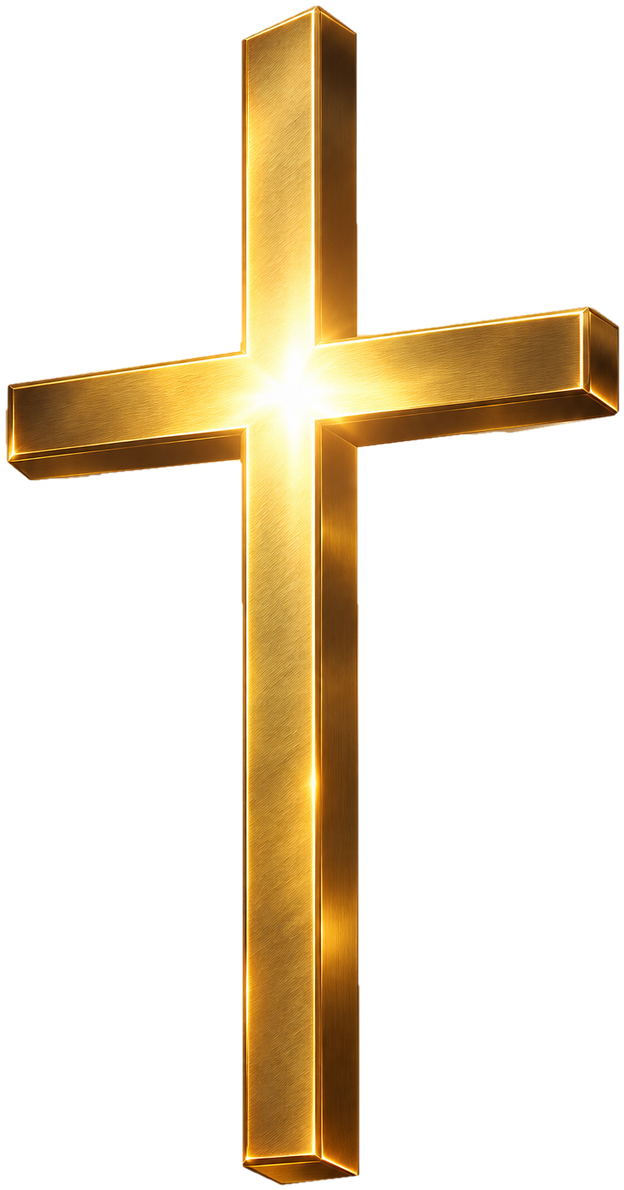
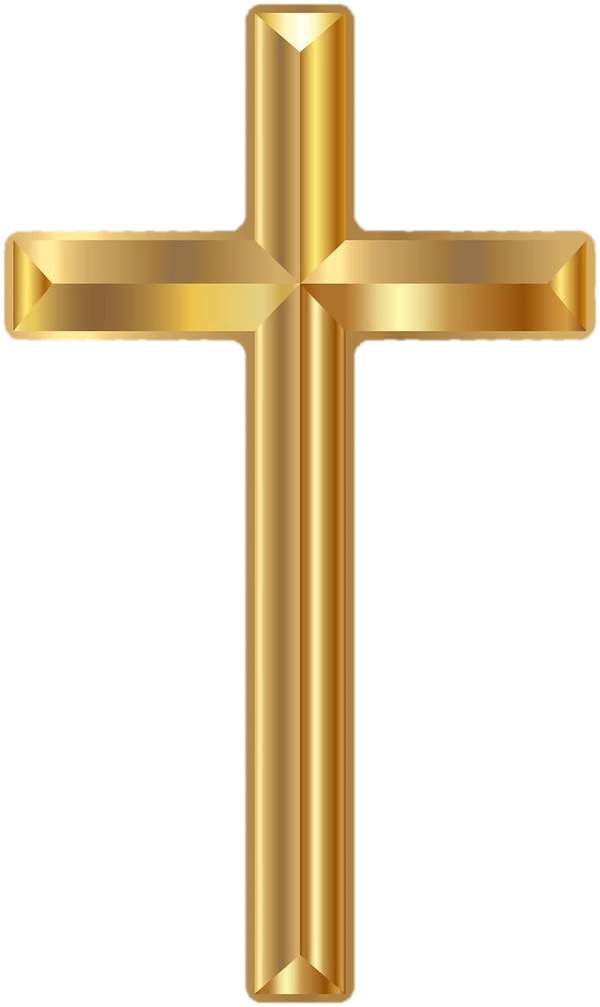
Another One

diff --git a/index.html b/index.html
@@ -3,9 +3,9 @@
 <head>
 <meta charset="utf-8">
 <meta name="viewport" content="width=device-width, initial-scale=1">
+<link rel="canonical" href="https://blessedchuckles.netlify.app/">
 <link rel="icon" href="logo.jpg">
-<title>Blessed Chuckles</title>
-<meta name="claude:viewport-fit-sides" content="cover">
+<title>Blessed Chuckles | Worship, Prayer and the Catholic Bible</title>
 <meta name="description" content="Blessed Chuckles: worship, prayer, inspiration, and the Catholic Bible to read online.">
 <meta property="og:type" content="website">
 <meta property="og:site_name" content="Blessed Chuckles">
@@ -26,7 +26,7 @@
     :root{--navy:#061629;--navy2:#0a2039;--navy3:#102b49;--gold:#d8b56c;--gold2:#f3d99d;--white:#f7f8fb;--muted:#aab8c8;--line:rgba(220,231,244,.13);--max:1180px}
     *{box-sizing:border-box}html{scroll-behavior:smooth}body{margin:0;background:var(--navy);color:var(--white);font-family:'DM Sans',sans-serif;overflow-x:hidden}a{color:inherit;text-decoration:none}button{font:inherit}.container{width:min(var(--max),calc(100% - 48px));margin:auto}.eyebrow{display:inline-flex;align-items:center;gap:10px;color:var(--gold2);font-size:.72rem;letter-spacing:.22em;text-transform:uppercase;font-weight:700}.eyebrow:before{content:'';width:28px;height:1px;background:var(--gold)}
     .nav{position:fixed;z-index:20;top:0;left:0;right:0;height:82px;display:flex;align-items:center;border-bottom:1px solid transparent;transition:.35s;background:linear-gradient(180deg,rgba(4,15,28,.72),transparent)}.nav.scrolled{height:70px;background:rgba(5,19,35,.9);backdrop-filter:blur(18px);border-color:var(--line)}.nav-inner{display:flex;align-items:center;justify-content:space-between}.brand{display:flex;align-items:center;gap:12px;font-family:'Playfair Display',serif;font-size:1.16rem;letter-spacing:.01em}.brand-mark{width:38px;height:38px;border:1px solid var(--gold);border-radius:50%;display:grid;place-items:center;color:var(--gold);font-size:18px;box-shadow:0 0 22px rgba(216,181,108,.13)}.brand span b{color:var(--gold);font-weight:600}.nav-links{display:flex;gap:30px;align-items:center;color:#d3dce7;font-size:.82rem}.nav-links a{transition:.2s}.nav-links a:hover{color:var(--gold2)}.nav-cta,.btn{display:inline-flex;align-items:center;justify-content:center;gap:10px;border:1px solid var(--gold);border-radius:999px;padding:13px 20px;color:var(--navy);background:linear-gradient(135deg,var(--gold2),var(--gold));font-weight:700;font-size:.8rem;letter-spacing:.02em;box-shadow:0 8px 28px rgba(216,181,108,.13);transition:transform .25s,box-shadow .25s}.nav-cta:hover,.btn:hover{transform:translateY(-3px);box-shadow:0 12px 34px rgba(216,181,108,.25)}.btn.secondary{color:var(--white);background:rgba(8,26,47,.36);box-shadow:none;border-color:rgba(239,220,177,.45)}.menu-btn{display:none;background:none;border:0;color:white;font-size:1.5rem}
-    .hero{position:relative;min-height:790px;height:100svh;max-height:980px;display:flex;align-items:center;overflow:hidden;background:radial-gradient(ellipse at 73% 40%,#173957 0%,#0a2039 34%,#061629 72%)}#world{position:absolute;inset:0;width:100%;height:100%;z-index:0}.hero:after{content:'';position:absolute;inset:0;z-index:1;pointer-events:none;background:linear-gradient(90deg,rgba(4,16,30,.86) 0%,rgba(4,16,30,.54) 45%,rgba(4,16,30,.12) 100%),linear-gradient(0deg,var(--navy) 0%,transparent 25%,rgba(4,16,30,.12) 100%)}.hero-content{position:relative;z-index:2;padding-top:75px;max-width:650px}.hero h1{font-family:'Playfair Display',serif;font-weight:500;font-size:clamp(3.2rem,7vw,6.6rem);line-height:.99;letter-spacing:-.045em;margin:24px 0 22px}.hero h1 em{font-style:normal;color:var(--gold2);display:block}.hero-copy{max-width:490px;color:#c0ccda;font-size:1.03rem;line-height:1.85;margin-bottom:32px}.hero-actions{display:flex;gap:13px;flex-wrap:wrap}.hero-note{margin-top:58px;display:flex;align-items:center;gap:14px;color:#9fb0c2;font-size:.72rem;letter-spacing:.1em;text-transform:uppercase}.hero-note:before{content:'';height:1px;width:42px;background:var(--gold)}.scroll-cue{position:absolute;z-index:3;right:4.5%;bottom:72px;writing-mode:vertical-rl;color:#b8c5d2;font-size:.65rem;letter-spacing:.24em;text-transform:uppercase;display:flex;align-items:center;gap:14px}.scroll-cue:after{content:'';height:52px;width:1px;background:linear-gradient(var(--gold),transparent)}
+    .hero{position:relative;min-height:790px;height:100svh;max-height:980px;display:flex;align-items:center;overflow:hidden;background:radial-gradient(ellipse at 73% 40%,#173957 0%,#0a2039 34%,#061629 72%)}.hero:after{content:'';position:absolute;inset:0;z-index:1;pointer-events:none;background:linear-gradient(90deg,rgba(4,16,30,.86) 0%,rgba(4,16,30,.54) 45%,rgba(4,16,30,.12) 100%),linear-gradient(0deg,var(--navy) 0%,transparent 25%,rgba(4,16,30,.12) 100%)}.hero-content{position:relative;z-index:2;padding-top:75px;max-width:650px}.hero h1{font-family:'Playfair Display',serif;font-weight:500;font-size:clamp(3.2rem,7vw,6.6rem);line-height:.99;letter-spacing:-.045em;margin:24px 0 22px}.hero h1 em{font-style:normal;color:var(--gold2);display:block}.hero-copy{max-width:490px;color:#c0ccda;font-size:1.03rem;line-height:1.85;margin-bottom:32px}.hero-actions{display:flex;gap:13px;flex-wrap:wrap}.hero-note{margin-top:58px;display:flex;align-items:center;gap:14px;color:#9fb0c2;font-size:.72rem;letter-spacing:.1em;text-transform:uppercase}.hero-note:before{content:'';height:1px;width:42px;background:var(--gold)}.scroll-cue{position:absolute;z-index:3;right:4.5%;bottom:72px;writing-mode:vertical-rl;color:#b8c5d2;font-size:.65rem;letter-spacing:.24em;text-transform:uppercase;display:flex;align-items:center;gap:14px}.scroll-cue:after{content:'';height:52px;width:1px;background:linear-gradient(var(--gold),transparent)}
     section{position:relative;padding:118px 0}.section-head{max-width:650px;margin-bottom:54px}.section-head h2{font-family:'Playfair Display',serif;font-weight:500;font-size:clamp(2.4rem,4.5vw,4.2rem);line-height:1.08;letter-spacing:-.035em;margin:18px 0}.section-head h2 span{color:var(--gold2)}.section-head p{color:var(--muted);line-height:1.85;margin:0;max-width:570px}.intro{background:linear-gradient(180deg,var(--navy),#081b30)}.intro-grid{display:grid;grid-template-columns:1.1fr .9fr;gap:90px;align-items:center}.intro-visual{height:430px;position:relative;border:1px solid var(--line);border-radius:5px;overflow:hidden;background:radial-gradient(ellipse at 55% 40%,rgba(216,181,108,.22),transparent 28%),linear-gradient(145deg,#173957,#08182b 70%)}.intro-visual:before,.intro-visual:after{content:'';position:absolute;left:-10%;right:-10%;bottom:-12%;height:65%;background:#0b2944;clip-path:polygon(0 70%,20% 22%,38% 60%,58% 10%,78% 52%,100% 25%,100% 100%,0 100%)}.intro-visual:after{bottom:-20%;background:#061629;opacity:.85;clip-path:polygon(0 45%,24% 12%,45% 58%,67% 22%,85% 55%,100% 30%,100% 100%,0 100%)}.sun{position:absolute;width:180px;height:180px;border-radius:50%;right:20%;top:14%;background:radial-gradient(circle,#fff4d2 0%,#e7c47e 12%,rgba(216,181,108,.22) 45%,transparent 70%);filter:blur(1px)}.cross-mini{position:absolute;z-index:2;right:28%;top:23%;width:8px;height:135px;background:linear-gradient(90deg,#b98e42,#f9e4ae,#9c7132);box-shadow:0 0 24px rgba(243,217,157,.5)}.cross-mini:after{content:'';position:absolute;width:74px;height:8px;top:34px;left:50%;transform:translateX(-50%);background:linear-gradient(90deg,#9c7132,#f9e4ae,#b98e42)}.visual-caption{position:absolute;z-index:3;left:28px;bottom:26px;color:#e6d4ad;font-family:'Playfair Display',serif;font-size:1.35rem}.intro-copy p{color:var(--muted);line-height:1.9}.signature{margin-top:28px;color:var(--gold2);font-family:'Playfair Display',serif;font-style:italic;font-size:1.2rem}
     .content{background:#081b30}.content-grid{display:grid;grid-template-columns:repeat(4,1fr);gap:16px}.content-card{min-height:290px;position:relative;overflow:hidden;border:1px solid var(--line);background:#0b2540;transition:transform .35s,border-color .35s}.content-card:hover{transform:translateY(-8px);border-color:rgba(216,181,108,.55)}.card-art{height:185px;position:relative;overflow:hidden}.card-art:before{content:'';position:absolute;inset:0;background:linear-gradient(150deg,rgba(216,181,108,.14),transparent 50%),radial-gradient(ellipse at 50% 100%,rgba(240,197,115,.2),transparent 45%)}.card-art:after{content:'';position:absolute;left:-15%;right:-15%;bottom:-42%;height:90%;background:#102f4b;clip-path:polygon(0 55%,22% 10%,44% 52%,64% 0,82% 43%,100% 15%,100% 100%,0 100%)}.card-art .symbol{position:absolute;z-index:2;inset:0;display:grid;place-items:center;color:var(--gold2);font-size:3.2rem;text-shadow:0 0 30px rgba(243,217,157,.45)}.card-art.prayer{background:linear-gradient(145deg,#102d4d,#071629)}.card-art.worship{background:linear-gradient(145deg,#3a3c4c,#10243c)}.card-art.faith{background:linear-gradient(145deg,#203e57,#0b2037)}.card-art.sleep{background:linear-gradient(145deg,#101f43,#071629)}.card-body{padding:20px}.card-body small{color:var(--gold);font-size:.65rem;letter-spacing:.18em;text-transform:uppercase}.card-body h3{font-family:'Playfair Display',serif;font-size:1.28rem;font-weight:500;margin:9px 0}.card-body p{color:var(--muted);font-size:.82rem;line-height:1.65;margin:0}.card-arrow{position:absolute;right:18px;top:18px;color:var(--gold2);font-size:1.2rem}
     .featured{background:linear-gradient(180deg,#081b30,#061629)}.featured-panel{border:1px solid rgba(216,181,108,.22);background:linear-gradient(120deg,#0d2945,#071629);padding:42px;display:grid;grid-template-columns:1fr 1fr;gap:50px;align-items:center}.video-placeholder{aspect-ratio:16/9;background:radial-gradient(ellipse at 55% 45%,rgba(216,181,108,.2),transparent 25%),linear-gradient(145deg,#193957,#061629);display:grid;place-items:center;position:relative;border:1px solid rgba(255,255,255,.12)}.video-placeholder:before{content:'';position:absolute;inset:0;background:linear-gradient(0deg,rgba(3,13,25,.55),transparent)}.play{position:relative;z-index:1;width:68px;height:68px;border-radius:50%;display:grid;place-items:center;background:var(--gold);color:var(--navy);font-size:1.2rem;box-shadow:0 0 45px rgba(216,181,108,.3);padding-left:4px}.featured-copy h2{font-family:'Playfair Display',serif;font-size:2.6rem;font-weight:500;line-height:1.1;margin:18px 0}.featured-copy p{color:var(--muted);line-height:1.8;margin-bottom:25px}.featured-copy .eyebrow:before{display:none}
@@ -98,7 +98,36 @@ body{padding-left:0;padding-right:0}
 .verse-card cite{position:relative;transition:opacity .35s ease}
 .verse-card.swap blockquote,.verse-card.swap cite{opacity:0}
 .vc-btns{position:relative;display:flex;flex-wrap:wrap;justify-content:center;gap:12px}
-.hero-cross{position:absolute;z-index:2;right:max(8%,env(safe-area-inset-right,0px));top:50%;height:min(76vh,680px);aspect-ratio:593/1121;transform:translateY(-47%);pointer-events:none}
+.hero{position:relative}.hero:before{content:'';position:absolute;inset:0;z-index:0;background:url(img/hero-sky.jpg) 70% center/cover no-repeat;pointer-events:none;-webkit-mask-image:linear-gradient(180deg,#000 0,#000 78%,transparent 100%);mask-image:linear-gradient(180deg,#000 0,#000 78%,transparent 100%)}
+@media(max-width:900px){.hero:before{background-position:68% center;opacity:.62}}
+:is(#about,#songs,#verses,#comfort,#prayers,#rosary,#watch,#videos,#prayer,.quote,#join){position:relative;overflow:hidden;background:linear-gradient(180deg,#061629 0%,#081b30 50%,#061629 100%)}
+:is(#about,#songs,#verses,#comfort,#prayers,#rosary,#watch,#videos,#prayer,.quote,#join):before{content:'';position:absolute;left:0;right:0;top:0;width:auto;height:min(640px,100%);z-index:0;background-repeat:no-repeat;background-size:cover;background-position:78% top;opacity:.3;pointer-events:none;-webkit-mask-image:linear-gradient(180deg,transparent 0,#000 30%,#000 52%,transparent 100%);mask-image:linear-gradient(180deg,transparent 0,#000 30%,#000 52%,transparent 100%);-webkit-mask-composite:source-over;mask-composite:add;transform:none}
+:is(#about,#songs,#verses,#comfort,#prayers,#rosary,#watch,#videos,#prayer,.quote,#join)>*{position:relative;z-index:1}
+#about:before{background-image:url(img/sky-a.jpg)}
+#songs:before{background-image:url(img/sky-b.jpg)}
+#verses:before{background-image:url(img/sky-c.jpg)}
+#comfort:before{background-image:url(img/sky-a.jpg)}
+#prayers:before{background-image:url(img/sky-b.jpg)}
+#rosary:before{background-image:url(img/sky-c.jpg)}
+#watch:before{background-image:url(img/sky-a.jpg)}
+#videos:before{background-image:url(img/sky-b.jpg)}
+#prayer:before{background-image:url(img/sky-c.jpg)}
+.quote:before{background-image:url(img/sky-a.jpg)}
+#join:before{background-image:url(img/sky-b.jpg)}
+@media(max-width:700px){:is(#about,#songs,#verses,#comfort,#prayers,#rosary,#watch,#videos,#prayer,.quote,#join):before{opacity:.24;height:min(520px,100%);background-position:70% top}}
+#about .section-head p,#songs .section-head p,#verses .section-head p,#comfort .section-head p,#prayers .section-head p,#rosary .section-head p,#watch .section-head p,#videos .section-head p,#prayer .section-head p,.quote .section-head p,#join .section-head p{color:#d3deec;text-shadow:0 1px 14px rgba(4,12,26,.75)}
+.hero-copy{text-shadow:0 1px 16px rgba(4,12,26,.85)}
+.hero h1{text-shadow:0 2px 24px rgba(4,12,26,.55)}
+.footer-links a{display:inline-block;padding:11px 5px}
+#menuBtn{min-width:44px;min-height:44px}
+@media(max-width:900px){.hero:before{opacity:.3}.hero-cross{opacity:.5!important}.hero-copy{color:#e1e9f3}}
+@media (prefers-reduced-motion:reduce){*,*:before,*:after{animation:none!important;transition-duration:.01ms!important;scroll-behavior:auto!important}}
+.hero-cross .tilt{pointer-events:auto;cursor:pointer;-webkit-tap-highlight-color:transparent}
+.hero-cross .gloss{position:absolute;inset:0;pointer-events:none;-webkit-mask:url(img/cross.png) center/100% 100% no-repeat;mask:url(img/cross.png) center/100% 100% no-repeat;background:linear-gradient(112deg,transparent 38%,rgba(255,255,255,0) 42%,rgba(255,252,235,.95) 50%,rgba(255,255,255,0) 58%,transparent 62%) 130% 0/300% 100% no-repeat;opacity:0}
+.hero-cross.shine .gloss{animation:glossSweep 1.1s ease-out}
+.hero-cross.shine img{filter:drop-shadow(0 0 30px rgba(255,214,120,.8)) drop-shadow(0 0 90px rgba(233,185,77,.6))}
+@keyframes glossSweep{0%{opacity:1;background-position:130% 0}100%{opacity:1;background-position:-30% 0}}
+.hero-cross{position:absolute;z-index:2;right:max(8%,env(safe-area-inset-right,0px));top:50%;height:min(76vh,680px);aspect-ratio:600/1007;transform:translateY(-47%);pointer-events:none}
 .hero-cross .tilt{position:relative;width:100%;height:100%;transform:perspective(900px) rotateY(var(--ry,0deg)) rotateX(var(--rx,0deg));transition:transform .5s ease-out}
 .hero-cross img{width:100%;height:100%;display:block;animation:floaty 9s ease-in-out infinite;filter:drop-shadow(0 0 22px rgba(255,200,90,.5)) drop-shadow(0 0 70px rgba(233,185,77,.35))}
 .hero-cross .glow{position:absolute;left:50%;top:38%;width:230%;aspect-ratio:1;transform:translate(-50%,-50%);border-radius:50%;background:radial-gradient(circle,rgba(255,222,140,.34) 0%,rgba(233,185,77,.14) 30%,rgba(233,185,77,.04) 50%,transparent 66%);animation:pulse 7s ease-in-out infinite}
@@ -365,13 +394,13 @@ h1,h2,h3{text-wrap:balance}
 </div></nav>
 
 <main>
-  <section class="hero" id="home"><canvas id="world" aria-hidden="true"></canvas><div class="container"><div class="hero-content">
+  <section class="hero" id="home"><div class="container"><div class="hero-content">
     <span class="eyebrow">A place for faith and inspiration</span>
     <h1>Find your peace.<em>Strengthen your faith.</em></h1>
     <p class="hero-copy">A quiet corner of the internet for worship, prayer, and reminders that God's goodness is always near. Take a breath, be encouraged, and let hope rise.</p>
     <div class="hero-actions"><a class="btn" href="https://www.youtube.com/@BlessedChuckles?sub_confirmation=1" target="_blank" rel="noopener">▶ &nbsp; Watch on YouTube</a><a class="btn secondary" href="#read">Read the Bible &nbsp; ↓</a></div>
     <div class="hero-note">Faith · Hope · Joy · God's goodness</div>
-  </div></div><div class="hero-cross" aria-hidden="true"><div class="rays"></div><div class="glow"></div><div class="tilt"><img src="img/cross.png" alt="" width="593" height="1121"></div></div><div class="scroll-cue">Scroll to discover</div></section>
+  </div></div><div class="hero-cross" aria-hidden="true"><div class="glow"></div><div class="tilt"><img src="img/cross.png" alt="" width="600" height="1007"><span class="gloss"></span></div></div><div class="scroll-cue">Scroll to discover</div></section>
 
   <section class="intro" id="about"><div class="container intro-grid"><div class="intro-copy reveal"><span class="eyebrow">The heart behind the channel</span><div class="section-head"><h2>A little light for <span>everyday life.</span></h2><p>Blessed Chuckles is a place to pause, reconnect with what matters, and find encouragement through music, prayer, and uplifting messages.</p></div><p>Whether you are beginning a new day, looking for peace before sleep, or simply need a reminder to keep believing, we hope you find something here that lifts your spirit.</p><div class="signature">Let God's love light your way.</div></div>
     <div class="photo-frame reveal"><img src="img/cross.jpg" alt="A wooden cross on a hilltop at sunrise. Hope rises with the light." width="900" height="985"></div></div></section>
@@ -537,28 +566,6 @@ h1,h2,h3{text-wrap:balance}
 </div>
 
 
-<script type="module">
-
-    import * as THREE from 'https://cdn.jsdelivr.net/npm/three@0.161.0/build/three.module.js';
-    const canvas=document.querySelector('#world');
-    const scene=new THREE.Scene(); scene.fog=new THREE.FogExp2(0x07192c,.018);
-    const camera=new THREE.PerspectiveCamera(48,innerWidth/innerHeight,.1,180);camera.position.set(0,5,24);
-    const renderer=new THREE.WebGLRenderer({canvas,antialias:true,alpha:true});renderer.setPixelRatio(Math.min(devicePixelRatio,1.8));renderer.setSize(innerWidth,innerHeight);renderer.outputColorSpace=THREE.SRGBColorSpace;
-    scene.add(new THREE.AmbientLight(0x9bb7d2,.8));const key=new THREE.DirectionalLight(0xffd99a,2.2);key.position.set(5,10,8);scene.add(key);
-    const gold=new THREE.MeshStandardMaterial({color:0xd7b36b,metalness:.72,roughness:.28,emissive:0x68451b,emissiveIntensity:.45});
-    const cross=new THREE.Group();const vertical=new THREE.Mesh(new THREE.BoxGeometry(.48,7.2,.48),gold);const horizontal=new THREE.Mesh(new THREE.BoxGeometry(4.3,.48,.48),gold);horizontal.position.y=1.25;cross.add(vertical,horizontal);cross.position.set(6,4,-7);cross.rotation.z=-.035;scene.add(cross);
-    const halo=new THREE.Mesh(new THREE.SphereGeometry(2.5,32,32),new THREE.MeshBasicMaterial({color:0xe8c77f,transparent:true,opacity:.08}));halo.position.set(6,4,-7.5);scene.add(halo);
-    const sun=new THREE.PointLight(0xffd18a,95,35);sun.position.set(6,5,-6);scene.add(sun);
-    function ridge(z,y,color,amp,seed){const pts=[];for(let i=0;i<=80;i++){const x=-35+i*.9;const v=Math.sin(i*.19+seed)*amp+Math.sin(i*.061+seed*2)*amp*.7;pts.push(new THREE.Vector2(x,y+v));}const shape=new THREE.Shape();shape.moveTo(-35,-9);shape.lineTo(pts[0].x,pts[0].y);pts.forEach(p=>shape.lineTo(p.x,p.y));shape.lineTo(37,-9);shape.lineTo(-35,-9);const geo=new THREE.ShapeGeometry(shape);const mesh=new THREE.Mesh(geo,new THREE.MeshBasicMaterial({color,side:THREE.DoubleSide}));mesh.position.z=z;scene.add(mesh);}
-    ridge(-12,-1,0x1a3b58,1.5,2);ridge(-8,-2.2,0x102e49,1.9,4);ridge(-4,-3.5,0x0a223a,1.3,7);ridge(0,-5,0x061629,1,10);
-    const starsGeo=new THREE.BufferGeometry(),starPos=[];for(let i=0;i<500;i++)starPos.push((Math.random()-.5)*70,Math.random()*28-1,-Math.random()*45-5);starsGeo.setAttribute('position',new THREE.Float32BufferAttribute(starPos,3));const stars=new THREE.Points(starsGeo,new THREE.PointsMaterial({color:0xe7d5ae,size:.075,transparent:true,opacity:.8}));scene.add(stars);
-    const cloudMat=new THREE.MeshBasicMaterial({color:0x8aa6bd,transparent:true,opacity:.07,depthWrite:false});const clouds=[];for(let i=0;i<14;i++){const g=new THREE.Group();for(let j=0;j<5;j++){const s=new THREE.Mesh(new THREE.SphereGeometry(1.2+Math.random()*1.8,12,10),cloudMat);s.position.set(j*1.4,Math.random()*.6,Math.random()*1.5);s.scale.y=.48;g.add(s);}g.position.set((Math.random()-.5)*46,-1+Math.random()*8,-16-Math.random()*20);scene.add(g);clouds.push(g);}
-    let pointerX=0,pointerY=0,targetX=0,targetY=0;addEventListener('pointermove',e=>{pointerX=(e.clientX/innerWidth-.5)*.8;pointerY=(e.clientY/innerHeight-.5)*.35;});
-    const clock=new THREE.Clock();function animate(){const t=clock.getElapsedTime();targetX+=(pointerX-targetX)*.025;targetY+=(pointerY-targetY)*.025;camera.position.x=targetX*2.2;camera.position.y=5-targetY*2;camera.lookAt(0,1,-7);cross.rotation.y=Math.sin(t*.25)*.035;halo.scale.setScalar(1+Math.sin(t*.7)*.035);clouds.forEach((c,i)=>{c.position.x+=.002+(i%3)*.0005;if(c.position.x>28)c.position.x=-28;});stars.rotation.y=t*.003;renderer.render(scene,camera);requestAnimationFrame(animate);}animate();
-    addEventListener('resize',()=>{camera.aspect=innerWidth/innerHeight;camera.updateProjectionMatrix();renderer.setSize(innerWidth,innerHeight);renderer.setPixelRatio(Math.min(devicePixelRatio,1.8));});
-  
-cross.visible=false;halo.visible=false;
-</script>
 <script>
 
 const nav=document.querySelector('#nav'),menu=document.querySelector('#menuBtn'),links=document.querySelector('#navLinks');
@@ -1343,4 +1350,5 @@ else{started=true;load(cur);}
 
 </script>
 
+<script>(function(){var c=document.querySelector('.hero-cross'),t=c&&c.querySelector('.tilt');if(!t)return;var tm;function go(){c.classList.remove('shine');void c.offsetWidth;c.classList.add('shine');clearTimeout(tm);tm=setTimeout(function(){c.classList.remove('shine')},1200)}t.addEventListener('click',go);t.setAttribute('role','button');t.setAttribute('tabindex','0');t.setAttribute('aria-label','Make the cross shine');t.addEventListener('keydown',function(e){if(e.key==='Enter'||e.key===' '){e.preventDefault();go()}})})();</script>
 </html>

diff --git a/404.html b/404.html
@@ -1,0 +1,12 @@
+<!doctype html>
+<html lang="en"><head><meta charset="utf-8"><meta name="viewport" content="width=device-width, initial-scale=1">
+<title>Page not found | Blessed Chuckles</title><meta name="robots" content="noindex"><meta name="theme-color" content="#061629">
+<link rel="icon" href="/logo.jpg">
+<style>
+*{box-sizing:border-box;margin:0}body{min-height:100vh;display:grid;place-items:center;padding:24px;background:radial-gradient(90% 80% at 70% 30%,#173957,#0a2039 45%,#061629);color:#eef3fa;font-family:"DM Sans",system-ui,-apple-system,"Segoe UI",Roboto,sans-serif;text-align:center}
+.box{max-width:520px}img{width:72px;height:72px;border-radius:50%;border:2px solid #e9b94d;margin-bottom:22px}
+h1{font-family:"Playfair Display",Georgia,serif;font-weight:600;font-size:clamp(2.2rem,7vw,3.2rem);line-height:1.1;margin-bottom:14px}h1 span{color:#f0d49a}
+p{color:#c3d2e4;line-height:1.7;margin-bottom:26px}
+a{display:inline-block;padding:13px 26px;border-radius:999px;background:linear-gradient(135deg,#f3dba2,#d4a94f);color:#0a1626;font-weight:700;text-decoration:none}
+a:focus-visible{outline:2px solid #fff;outline-offset:3px}
+</style></head><body><div class="box"><img src="/logo.jpg" alt="Blessed Chuckles"><h1>This page <span>wandered off.</span></h1><p>We could not find what you were looking for, but you are always welcome here. Let us take you back home.</p><a href="/">Back to Blessed Chuckles</a></div></body></html>
